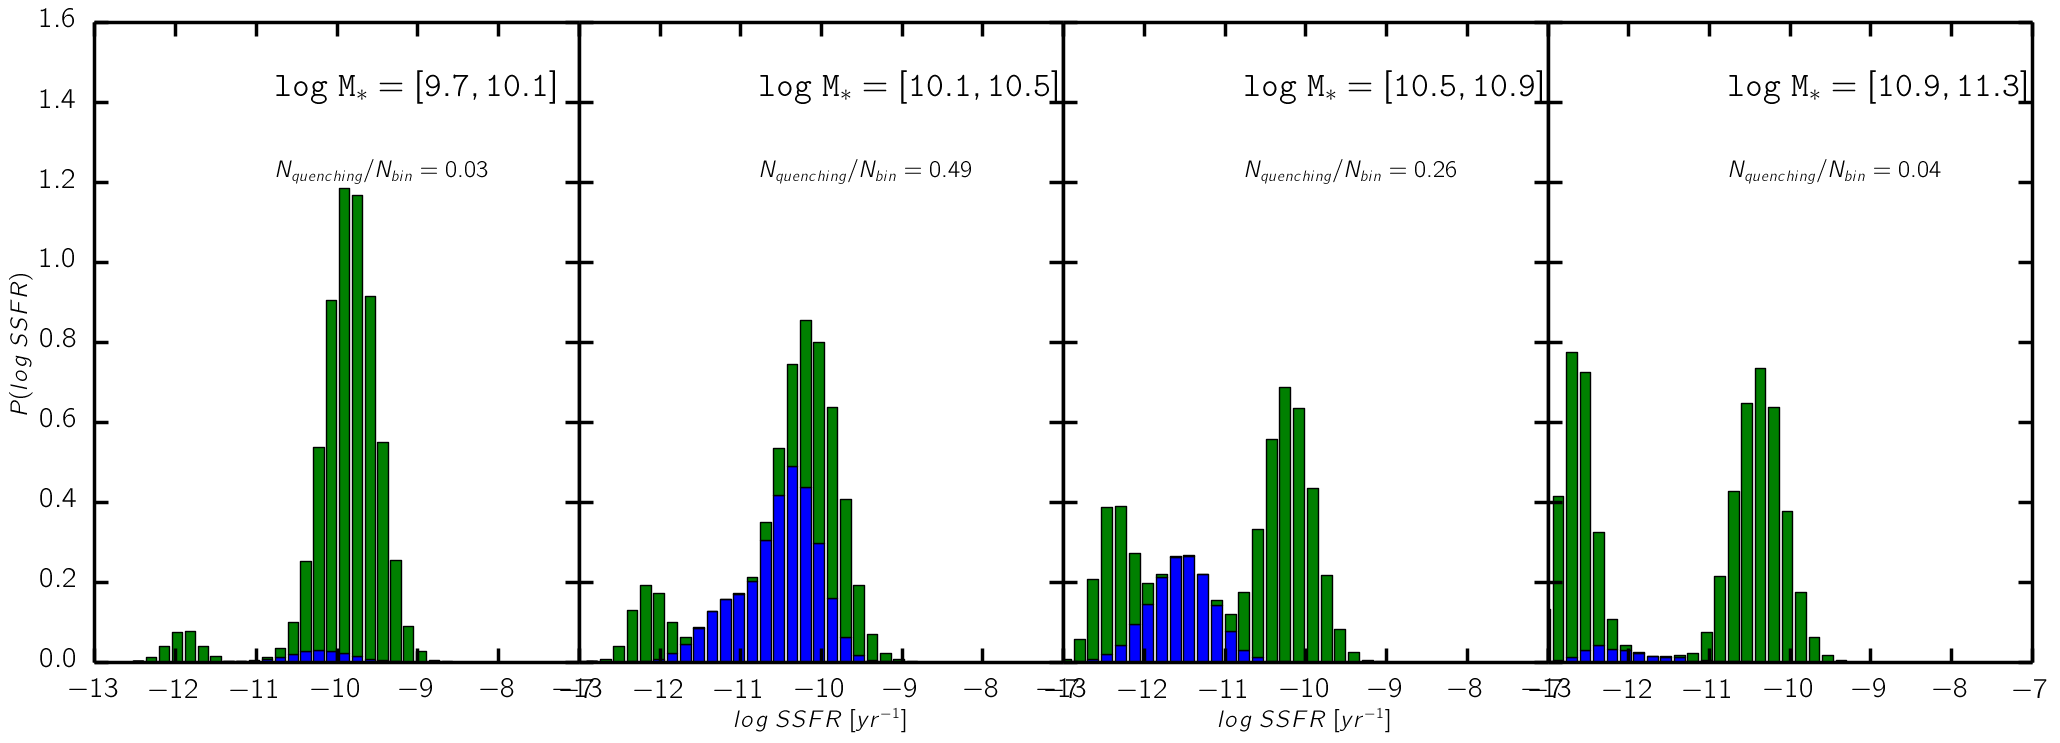
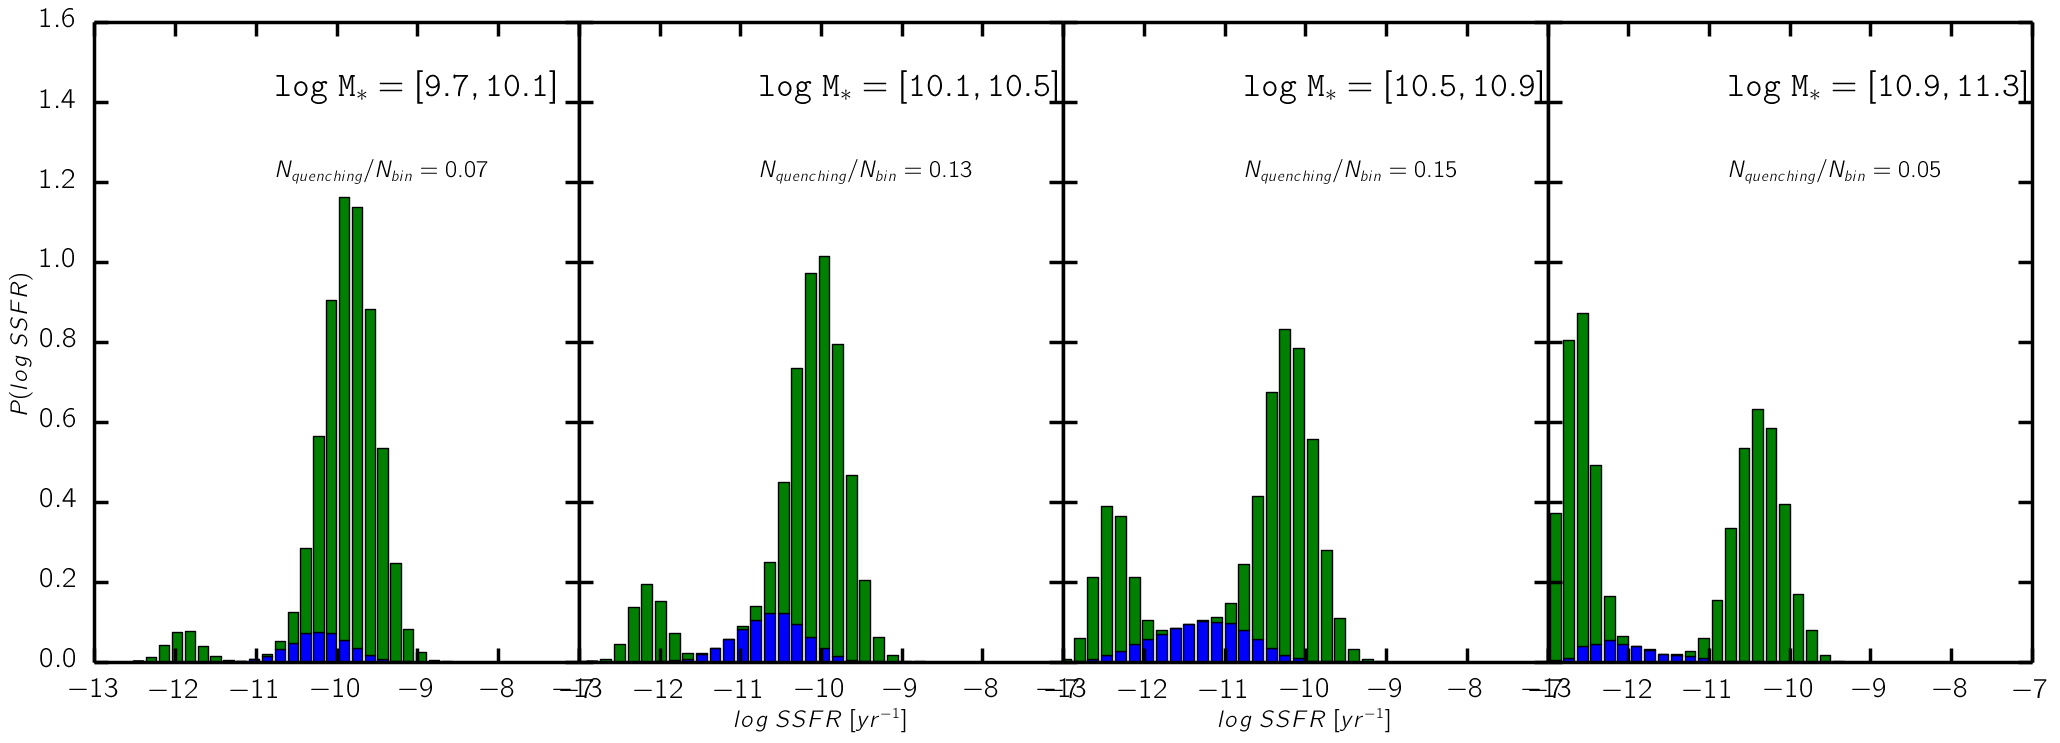
Slowly abandoning, predictive quenching fraction for quenching fraction that depends on mass and z; z dependence of quenching fraction still needs to be determined

diff --git a/cenque_plot.py b/cenque_plot.py
@@ -227,10 +227,14 @@ def plot_cenque_quenching_ssfr_dist(nsnap, **kwargs):
         else_tau = (cenque.tau < 0.0) 
         
         sub = fig.add_subplot(1,4, i_mass+1)
-    
-        # stacked histogram 
-        sub.hist([cenque.ssfr[mass_limit & quenching_tau], cenque.ssfr[mass_limit & else_tau]], 
-                25, stacked=True, normed=True) 
+
+        if np.sum(mass_limit & quenching_tau) == 0: 
+            # stacked histogram 
+            sub.hist(cenque.ssfr[mass_limit & else_tau], 25, normed=True) 
+        else: 
+            # stacked histogram 
+            sub.hist([cenque.ssfr[mass_limit & quenching_tau], cenque.ssfr[mass_limit & else_tau]], 
+                    25, stacked=True, normed=True) 
 
         sub.text(-10.75, 1.2, r'$N_{quenching}/N_{bin} = '+\
                 str('%.2f' % (np.float(len(cenque.ssfr[mass_limit & quenching_tau]))/np.float(len(cenque.ssfr[mass_limit]))))+'$') 
@@ -1078,34 +1082,63 @@ if __name__=='__main__':
     #plot_groupcat_obs_fq(Mrcut=18)
     #plot_groupcat_obs_fq(Mrcut=19)
     #plot_groupcat_obs_fq(Mrcut=20)
-    #plot_cenque_ssfr_dist_evolution(nsnaps=[1,2,3,4,5,6,7,8,9, 10, 11,12], Mrcut=18, tau='linear')
-    plot_cenque_quenching_ssfr_dist(12, tau='linear')
-    plot_cenque_quenching_ssfr_dist(11, tau='linear')
-    plot_cenque_quenching_ssfr_dist(10, tau='linear')
-    plot_cenque_quenching_ssfr_dist(9, tau='linear')
-    plot_cenque_quenching_ssfr_dist(8, tau='linear')
-    plot_cenque_quenching_ssfr_dist(7, tau='linear')
-    plot_cenque_quenching_ssfr_dist(6, tau='linear')
-    plot_cenque_quenching_ssfr_dist(5, tau='linear')
-    plot_cenque_quenching_ssfr_dist(4, tau='linear')
-    plot_cenque_quenching_ssfr_dist(3, tau='linear')
-    plot_cenque_quenching_ssfr_dist(2, tau='linear')
-    plot_cenque_quenching_ssfr_dist(1, tau='linear')
+    plot_cenque_ssfr_dist_evolution(nsnaps=[1], Mrcut=18, tau='linear')
+    #plot_cenque_quenching_ssfr_dist(12, tau='linear')
+    #plot_cenque_quenching_ssfr_dist(11, tau='linear')
+    #plot_cenque_quenching_ssfr_dist(10, tau='linear')
+    #plot_cenque_quenching_ssfr_dist(9,  tau='linear')
+    #plot_cenque_quenching_ssfr_dist(8,  tau='linear')
+    #plot_cenque_quenching_ssfr_dist(7,  tau='linear')
+    #plot_cenque_quenching_ssfr_dist(6,  tau='linear')
+    #plot_cenque_quenching_ssfr_dist(5,  tau='linear')
+    #plot_cenque_quenching_ssfr_dist(4,  tau='linear')
+    #plot_cenque_quenching_ssfr_dist(3,  tau='linear')
+    #plot_cenque_quenching_ssfr_dist(2,  tau='linear')
+    #plot_cenque_quenching_ssfr_dist(1,  tau='linear')
+
+    #plot_cenque_quenching_ssfr_dist(12, tau='instant')
+    #plot_cenque_quenching_ssfr_dist(11, tau='instant')
+    #plot_cenque_quenching_ssfr_dist(10, tau='instant')
+    #plot_cenque_quenching_ssfr_dist(9,  tau='instant')
+    #plot_cenque_quenching_ssfr_dist(8,  tau='instant')
+    #plot_cenque_quenching_ssfr_dist(7,  tau='instant')
+    #plot_cenque_quenching_ssfr_dist(6,  tau='instant')
+    #plot_cenque_quenching_ssfr_dist(5,  tau='instant')
+    #plot_cenque_quenching_ssfr_dist(4,  tau='instant')
+    #plot_cenque_quenching_ssfr_dist(3,  tau='instant')
+    #plot_cenque_quenching_ssfr_dist(2,  tau='instant')
+    #plot_cenque_quenching_ssfr_dist(1,  tau='instant')
 
     #plot_snapshot_fqobs_evol(nsnaps=[1,2,3,4,5,6,7,8,9,10,11,12], fq_type='wetzel', tau='linear')
+    #plot_snapshot_fqobs_evol(nsnaps=[1,2,3,4,5,6,7,8,9,10,11,12], fq_type='wetzel', tau='instant')
+    '''
     plot_snapshot_fqobs(12, fq_type='wetzel', tau='linear')
     plot_snapshot_fqobs(11, fq_type='wetzel', tau='linear')
     plot_snapshot_fqobs(10, fq_type='wetzel', tau='linear')
-    plot_snapshot_fqobs(9, fq_type='wetzel', tau='linear')
-    plot_snapshot_fqobs(8, fq_type='wetzel', tau='linear')
-    plot_snapshot_fqobs(7, fq_type='wetzel', tau='linear')
-    plot_snapshot_fqobs(6, fq_type='wetzel', tau='linear')
-    plot_snapshot_fqobs(5, fq_type='wetzel', tau='linear')
-    plot_snapshot_fqobs(4, fq_type='wetzel', tau='linear')
-    plot_snapshot_fqobs(3, fq_type='wetzel', tau='linear')
-    plot_snapshot_fqobs(2, fq_type='wetzel', tau='linear')
-    plot_snapshot_fqobs(1, fq_type='wetzel', tau='linear')
-    #tau_fig = plot_quenching_efold(['linear', 'linefit'], [[], [-0.15, 0.17]]) 
+    plot_snapshot_fqobs(9, fq_type='wetzel',  tau='linear')
+    plot_snapshot_fqobs(8, fq_type='wetzel',  tau='linear')
+    plot_snapshot_fqobs(7, fq_type='wetzel',  tau='linear')
+    plot_snapshot_fqobs(6, fq_type='wetzel',  tau='linear')
+    plot_snapshot_fqobs(5, fq_type='wetzel',  tau='linear')
+    plot_snapshot_fqobs(4, fq_type='wetzel',  tau='linear')
+    plot_snapshot_fqobs(3, fq_type='wetzel',  tau='linear')
+    plot_snapshot_fqobs(2, fq_type='wetzel',  tau='linear')
+    plot_snapshot_fqobs(1, fq_type='wetzel',  tau='linear')
+    '''
+
+    #plot_snapshot_fqobs(12, fq_type='wetzel', tau='instant')
+    #plot_snapshot_fqobs(11, fq_type='wetzel', tau='instant')
+    #plot_snapshot_fqobs(10, fq_type='wetzel', tau='instant')
+    #plot_snapshot_fqobs(9, fq_type='wetzel',  tau='instant')
+    #plot_snapshot_fqobs(8, fq_type='wetzel',  tau='instant')
+    #plot_snapshot_fqobs(7, fq_type='wetzel',  tau='instant')
+    #plot_snapshot_fqobs(6, fq_type='wetzel',  tau='instant')
+    #plot_snapshot_fqobs(5, fq_type='wetzel',  tau='instant')
+    #plot_snapshot_fqobs(4, fq_type='wetzel',  tau='instant')
+    #plot_snapshot_fqobs(3, fq_type='wetzel',  tau='instant')
+    #plot_snapshot_fqobs(2, fq_type='wetzel',  tau='instant')
+    #plot_snapshot_fqobs(1, fq_type='wetzel',  tau='instant')
+    ##tau_fig = plot_quenching_efold(['linear', 'linefit'], [[], [-0.15, 0.17]]) 
 
     #plot_ssfms_groupcat(Mrcut=18)
     #plot_ssfms_groupcat(Mrcut=19)

diff --git a/cenque.py b/cenque.py
@@ -559,7 +559,11 @@ def EvolveCenQue(origin_nsnap, final_nsnap, mass_bin=None, **kwargs):
                 # quenching, overshot in previous snapshot  
                 # move onto next mass bin 
                 print 'Quenching overshot in previous snapshot' 
-                continue 
+                pass
+                #continue 
+
+            if mbin_sf_ngal == 0: 
+                continue
             
             # Star-forming children 
             mbin_sf_index = child_cq.get_index( 
@@ -586,6 +590,7 @@ def EvolveCenQue(origin_nsnap, final_nsnap, mass_bin=None, **kwargs):
                 -(child_cq.t_cosmic - parent_cq.t_cosmic) / taus 
                 ))      
             #print child_cq.parent_sfr[mbin_sf_index] + tau_quench - child_cq.mass[mbin_sf_index]
+            print tau_quench
             print min(child_cq.sfr[mbin_sf_index] + tau_quench - child_cq.mass[mbin_sf_index])
             print max(child_cq.sfr[mbin_sf_index] + tau_quench - child_cq.mass[mbin_sf_index])
 
@@ -597,11 +602,16 @@ def EvolveCenQue(origin_nsnap, final_nsnap, mass_bin=None, **kwargs):
             if ngal_totalq == 0: 
                 raise NameError("What the fuck") 
 
-            quenching_fraction = np.float(ngal_2quench)/ngal_totalq
+            #quenching_fraction = np.float(ngal_2quench)/ngal_totalq
+            quenching_fraction = 0.1 + 0.066 * (mass_bins.mass_mid[i_m] - 11.0)
+            if quenching_fraction < 0.0: 
+                quenching_fraction = 0.0
             print 'ngal_totalq', ngal_totalq
             print 'quenching fraction ', quenching_fraction
+            if quenching_fraction == 0.0: 
+                continue
             
-            if quenching_fraction > 1.0: 
+            if quenching_fraction > 0.4: 
                 #raise NameError('asdfasdfasdf')
                 #quench_index = mbin_sf_index
                 print 'QUENCHING FRACTION TOO LARGE ******************************************************************'

diff --git a/cenque_utility.py b/cenque_utility.py
@@ -386,7 +386,7 @@ def sfq_classify(mstar, sfr, z_in, Mrcut=18, clobber=False):
     #SFR_amp = groupcat_fit_param[1] + d_yints
 
     #SFR_cut = groupcat_fit_param[0] * (mstar - fid_mass) + SFR_amp - 1.0
-    ssfr_cut = -11.7 + 0.98*z_in - 0.25*(mstar-10.25)
+    ssfr_cut = -11.55 + (z_in-0.05) - 0.49*(mstar-10.5)
     sfr_cut = ssfr_cut + mstar 
 
     sfq = np.empty(len(mstar), dtype=(str,16))
